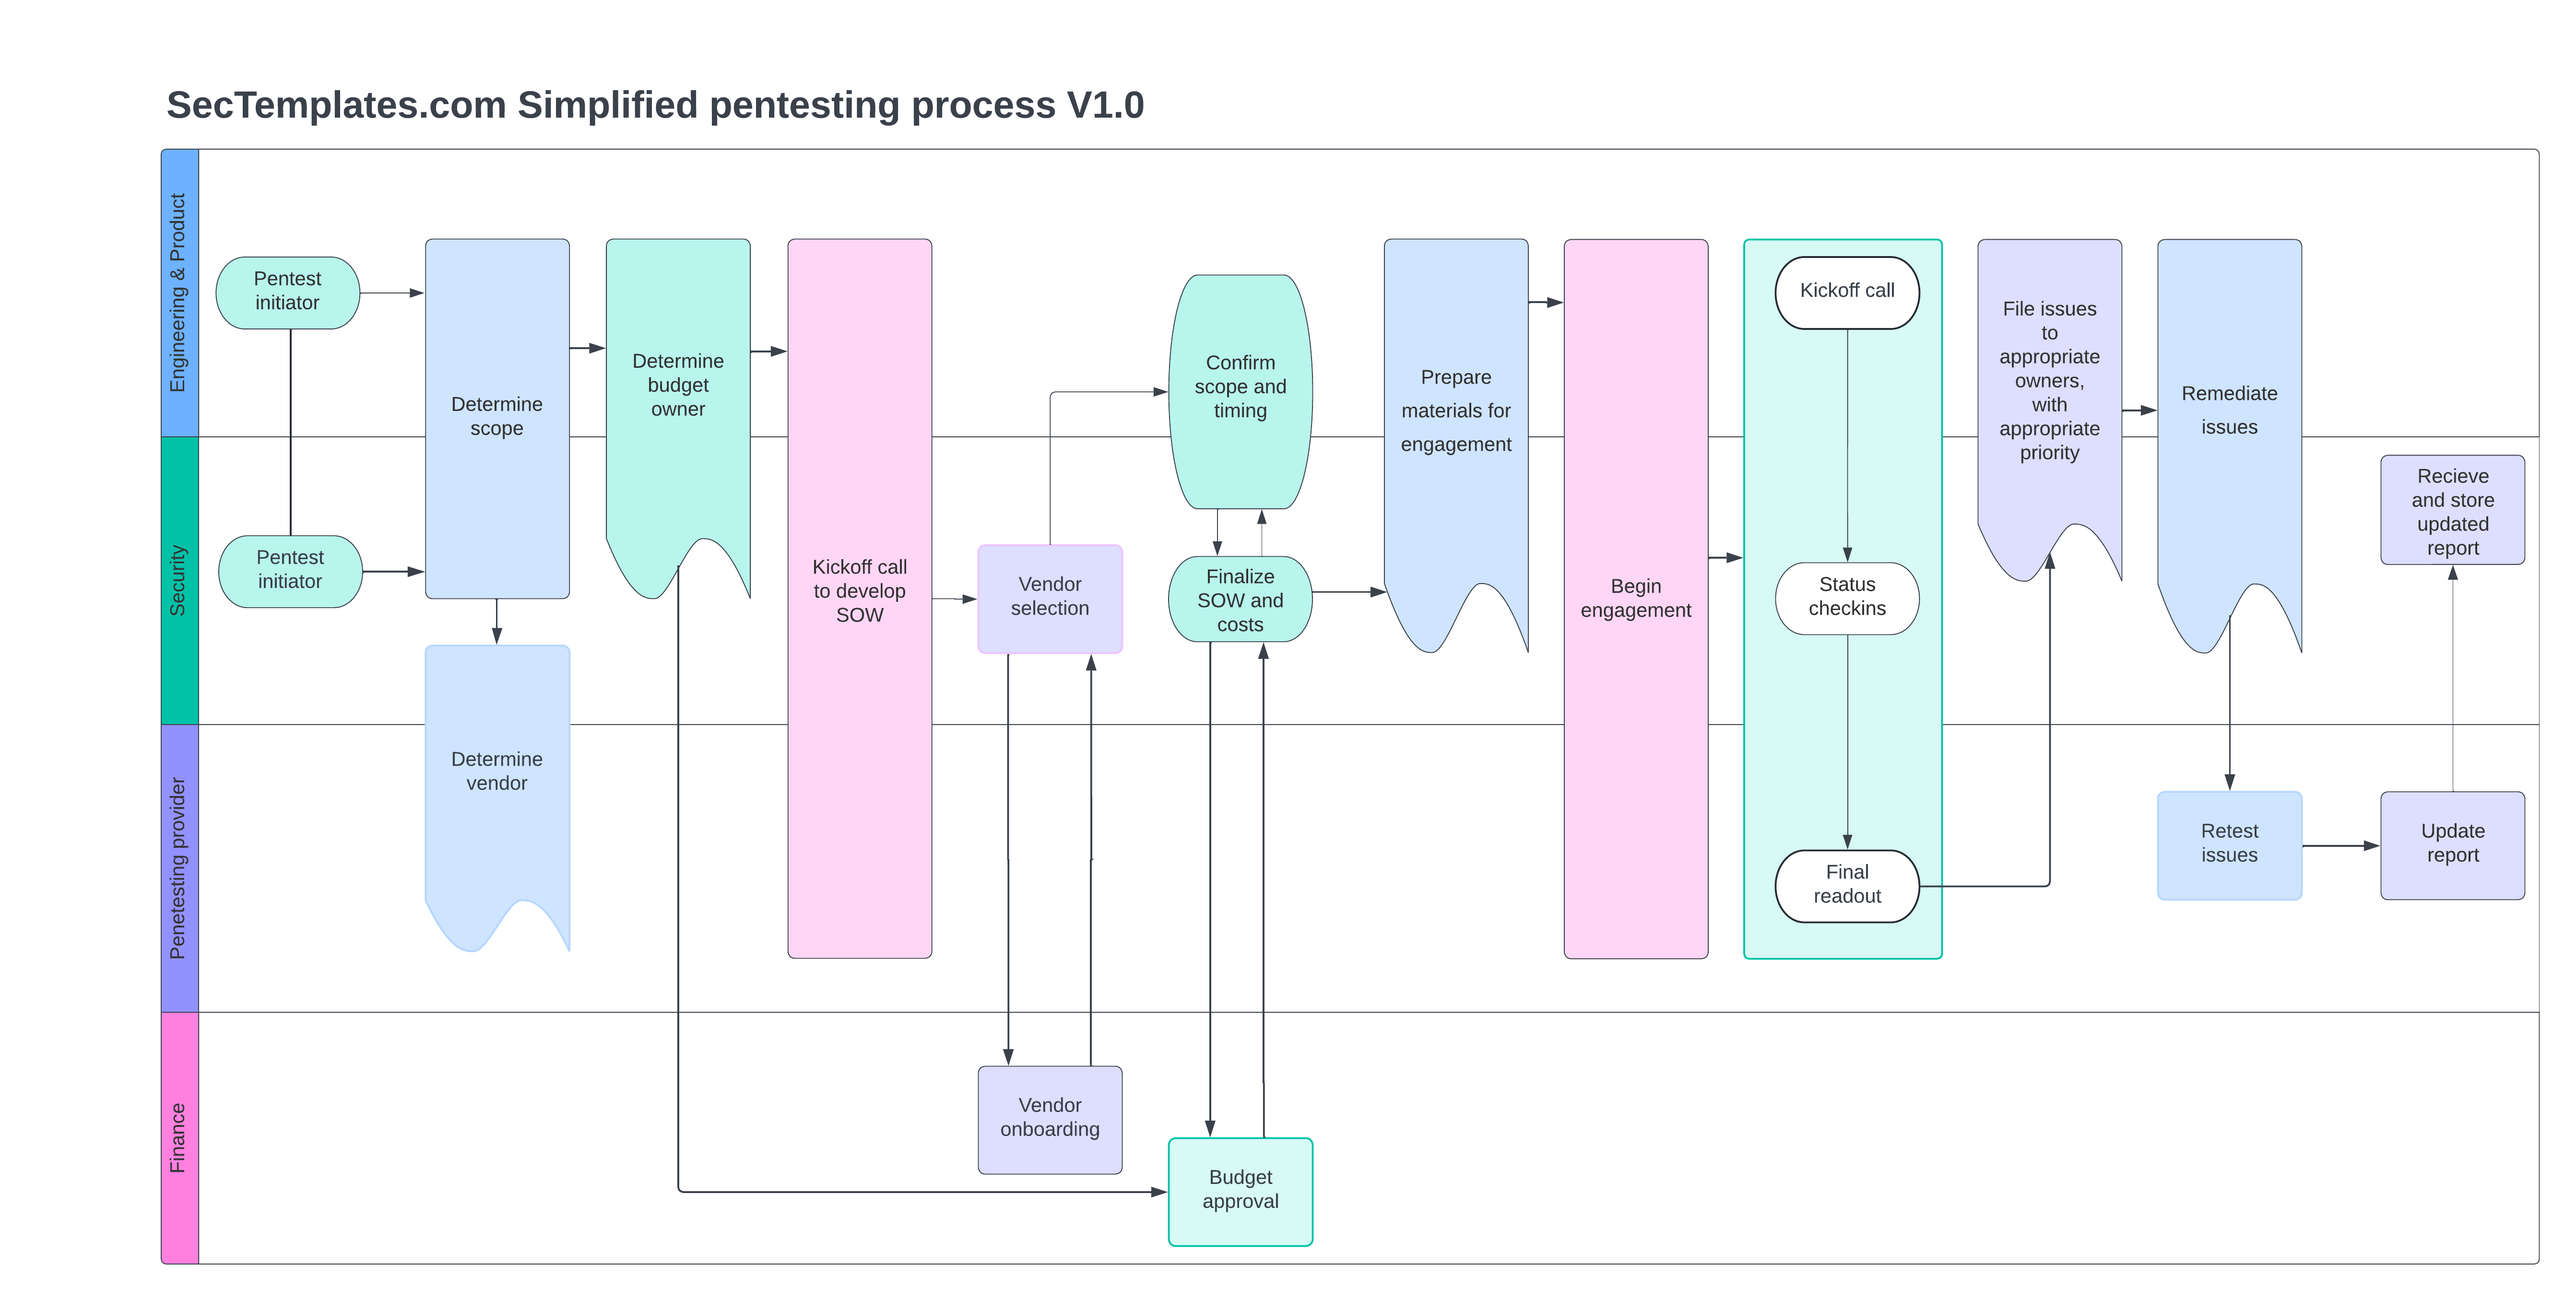
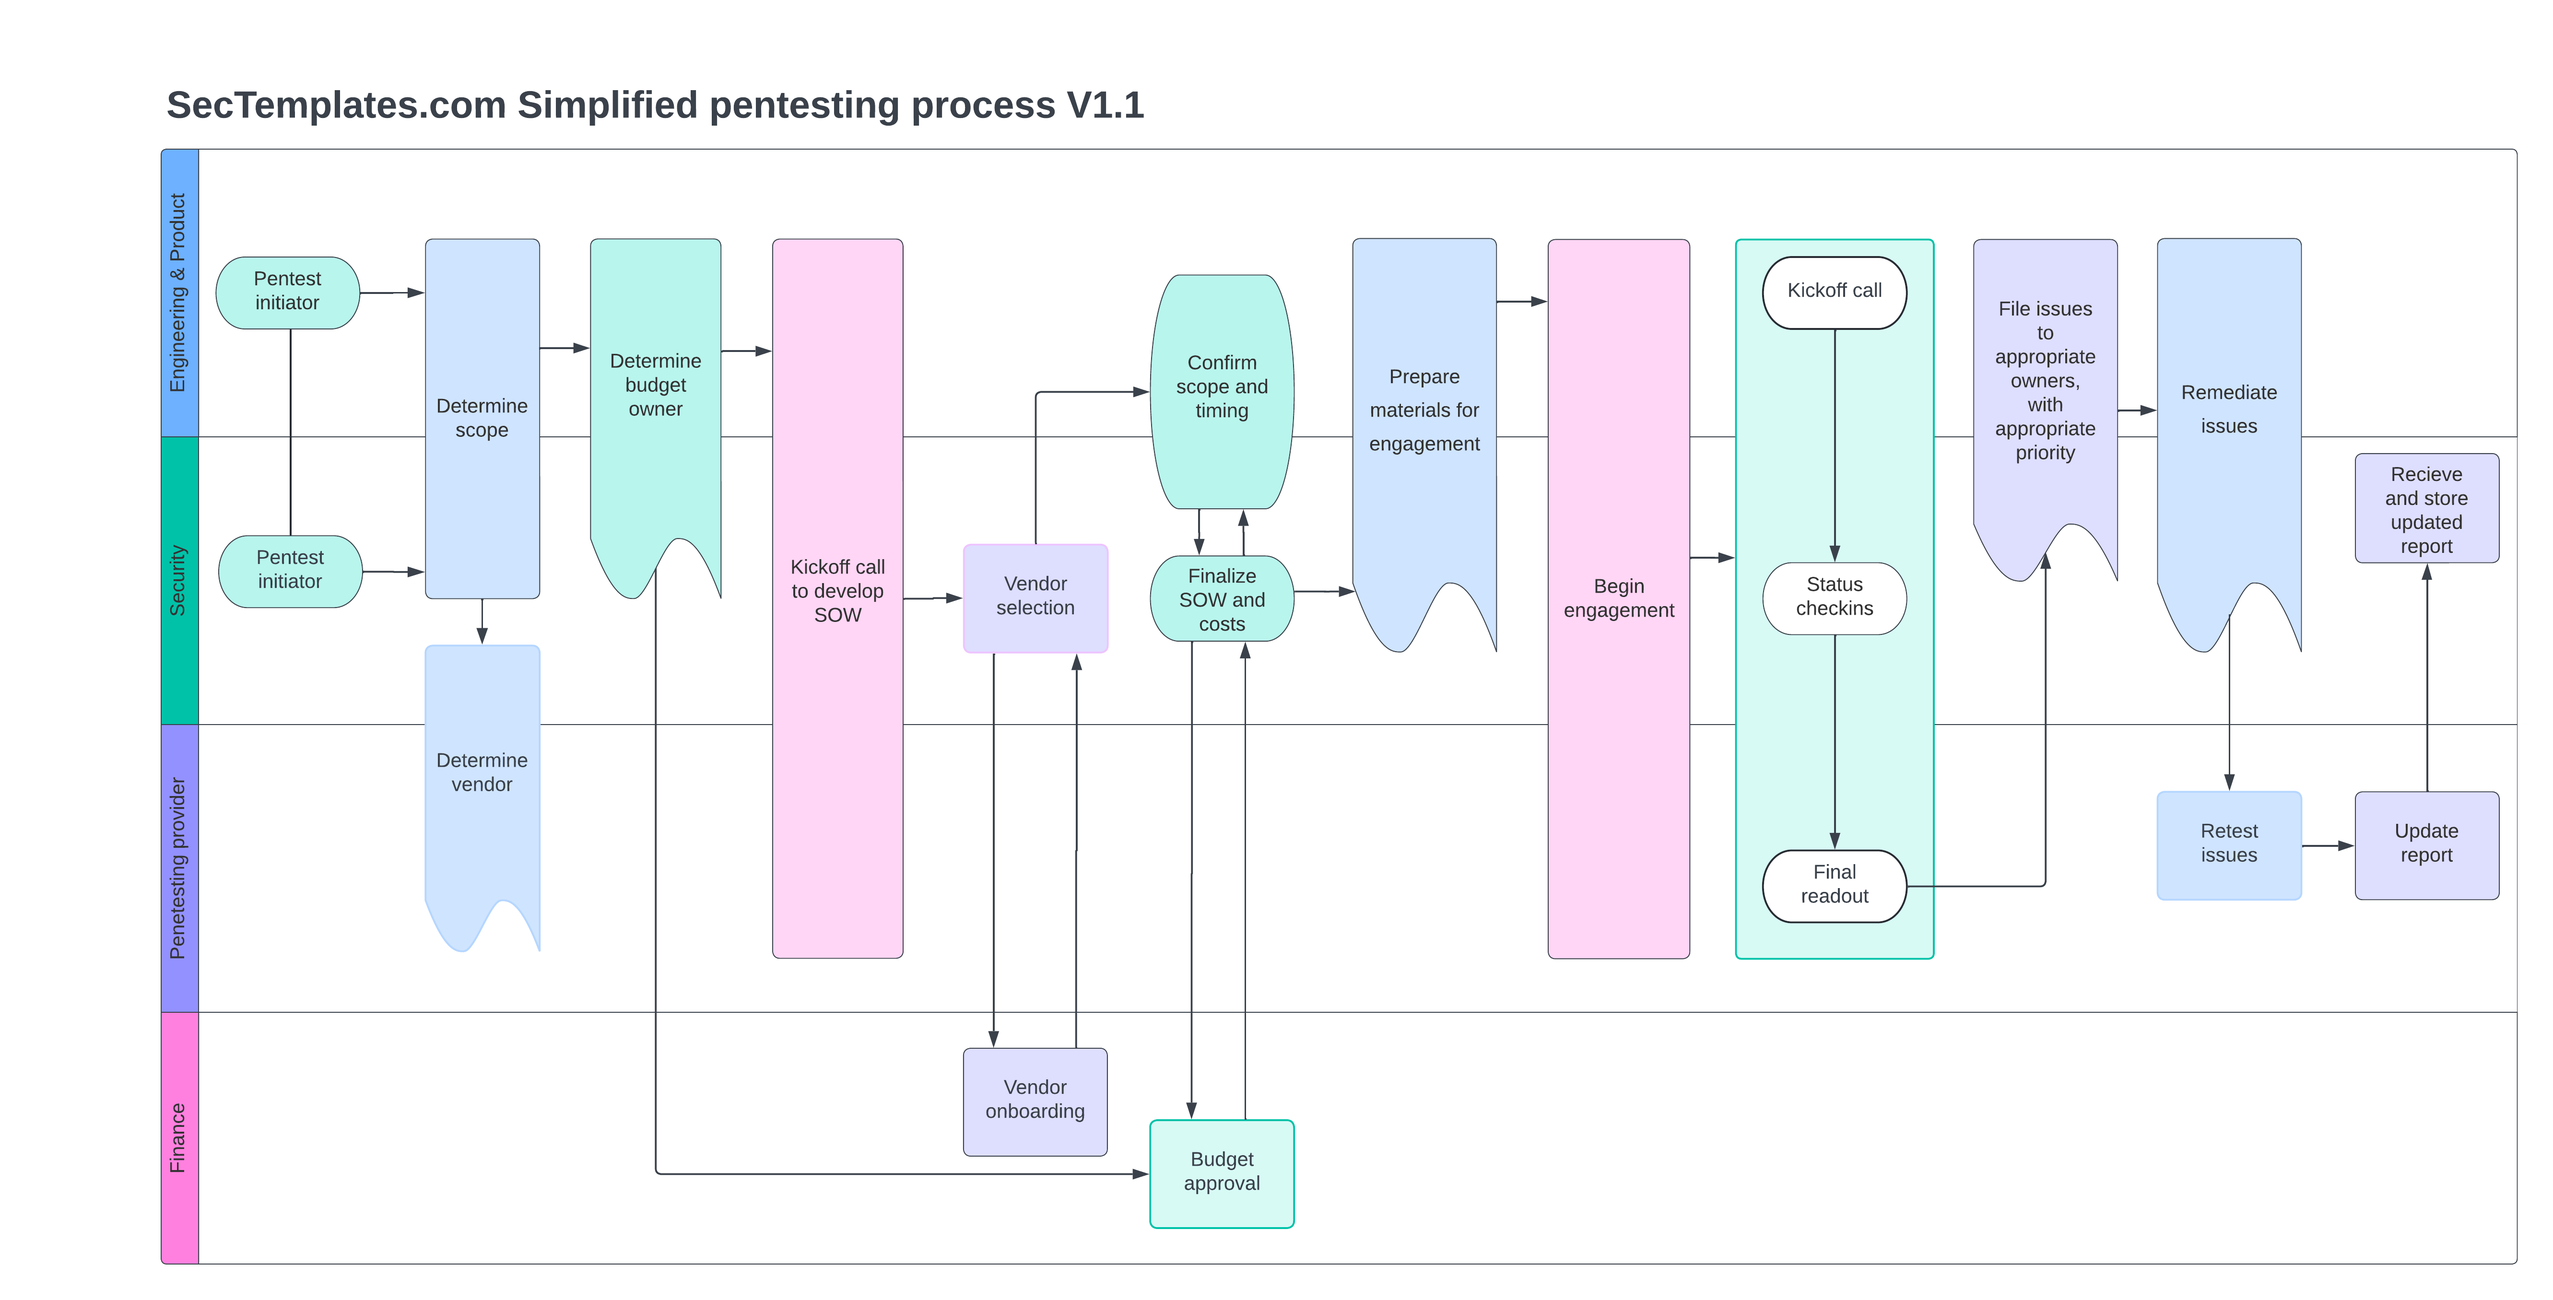
Release 1.1
See UPDATES.md for details on what has changed

diff --git a/external-penetration-testing/v1/Pentesting_preparation_checklist.md b/external-penetration-testing/v1/Pentesting_preparation_checklist.md
@@ -1,4 +1,4 @@
-# Penetration testing preparation checklist 1.0
+# Penetration testing preparation checklist 1.1
 
 ## About
 This document outlines the preparation, activities, and considerations required to establish a minimal external penetration testing program.
@@ -6,9 +6,9 @@ This document outlines the preparation, activities, and considerations required 
 ## Penetration testing preparation checklist
 - [ ] <b>Understand why you want a pentest:</b> First and foremost, why are you looking to perform a pentest? Is this for a compliance checkbox, to enhance the security of your product/environment proactively or reactively, based on a customer request, or for some other reason? This can help set the direction, urgency, and path forward for executing a pentest. 
 - [ ] <b>Establish initial scope and capture it in a scoping document:</b> The pentest project manager will need to determine an initial scope and to capture it in a scoping document. This should be shared with engineering, product, compliance, and other applicable stakeholders to ensure the scope is correct and comprehensive. 
-- [ ] <b>Identify budget:</b> For external penetration tests you will need to find a budget to pay for the engagement. For internal pentesting, you will need to ensure the pentesting team has prioritized your engagement over another.
+- [ ] <b>Identify budget:</b> For external penetration tests you will need to find a budget to pay for the engagement. For internal pentesting, you will need to ensure the pentesting team has prioritized your engagement over another and can support your timelines.
 - [ ] <b>Identify external pentester:</b> If you lack an internal person who is qualified and available to perform the pentest, you will need to identify an external vendor.  There are hundreds of vendors offering this service, and using LinkedIn or word of mouth to find a good vendor is advisable whenever possible. It's important to create a shortlist of 2-3 vendors and determine which has the right skills, cost range, and timing for your engagement. 
-- [ ] <b>Onboard external pentester:</b> When using an external company, it can take several weeks or months to onboard the new vendor if it's the first time you're using them. This is because each company's vendor security/onboarding processes varies, and response times can also be slow depending on workload volume. It's critical to start this process early to avoid delays. Once you have decided the test needs to occur, begin this process even before locking in all details of the engagement. 
+- [ ] <b>Onboard external pentester:</b> When using an external company, it can take several weeks or months to onboard the new vendor if it's the first time you're using them. This is because each company's vendor security/onboarding processes varies, signatures from multiple stakeholders or 'stamps' may be required, and response times can also be slow depending on workload volume. It's critical to start this process early to avoid delays. Once you have decided the test needs to occur, begin this process even before locking in all details of the engagement. 
 - [ ] <b>Stakeholder identification:</b> It's critical to determine which stakeholders need to be involved in all aspects of the pentest process. Typically, this will involve looping in:<br>
     * The engineering manager owning the products, features, or systems in scope for the engagement.
     * A software engineer responsible for, or very familiar with the codebase.<br>
@@ -17,7 +17,7 @@ This document outlines the preparation, activities, and considerations required 
     * A pentest project manager, an individual coordinating the engagement. <br>
     * A representative from the compliance team, when there is a compliance tie-in.
 - [ ] <b>Confirm scope with stakeholders:</b> The scope should be captured in a planning document that will ultimately be included in a statement of work (SOW) with the external company.
-- [ ] <b>Confirm timing of product release:</b> If you're testing a new feature that isn't live, you will need to know the go-live date. It's recommended the testing wrap up 2-3 weeks before go live to give engineering the 2-3 weeks to fix any vulnerabilities prior to release. 
+- [ ] <b>Confirm timing of product release:</b> If you're testing a new feature that isn't live, you will need to know the go-live date. It's recommended the testing wrap up 2-3 weeks before go live to give engineering the 2-3 weeks to fix any vulnerabilities prior to release. The exact details on must fix items should be outlined in a <a href="https://www.sectemplates.com/2024/08/announcing-the-vulnerability-management-program-pack-10.html">vulnerability management process</a>.
 - [ ] <b>Establish SOW with vendor:</b> After identifying a vendor, work with them to establish a statement of work. The statement of work should specify the scope, price, days/weeks the engagement lasts, travel costs, <a href="./Pentest_reporting_requirements.md">reporting requirements</a>, and retesting details. If you omit any of these, you may be charged a higher fee later to include them. 
 - [ ] <b>Budget approval:</b> Once costs are known, work with the budget approver to adjust scope as needed, or to approve.
 - [ ] <b>Finalize SOW:</b> Now that budget is approved, timing is established with eng and outlined in the SOW, and you have double checked the scope, sign the SOW and lock it in with the vendor. This may require signatures from leadership, and/or legal, so anticipate this extra step timing wise.
@@ -30,12 +30,12 @@ This document outlines the preparation, activities, and considerations required 
 - [ ] <b>Plan engagement meetings:</b><br>
    * Scheduling the kickoff meeting with key stakeholders and the external testing company is essential. During this meeting eng/product should provide an overview of the products/systems utilized and answer questions the testers may have.<br>
    * Schedule one or more check-in meetings to ensure the testing is going as planned. This will enable course correction or additional support early which increases the chance of a successful engagement.<br>
-   * Schedule a final readout with key stakeholders from security, compliance (when applicable), engineering, and product. Invite other people involved in the process as optional but ensure key owners of the risks identified in the process are present in the final readout. <br>
+   * Schedule a final readout with key stakeholders from security, compliance (when applicable), engineering, and product. Invite other people involved in the process as optional but ensure key owners of the risks identified during the pentest are present in the final readout. <br>
 - [ ] <b>Communicating issues to risk owners:</b> Before the pentest concludes issues will be uncovered by the testers. It's important to immediately notify impacted engineering teams, this will enable them to verify if the issue is real and if so to remediate it quickly. If the issue isn't real it can then be excluded from the report or downgraded in priority if determined not to be as important as initially thought. Once a list of verified issues exist, create a parent jira ticket for the pentest engagement and link each issue as a child ticket and assign them to the correct engineering/operations owners. Ensure you speak with them about these issues prior to filing them to ensure you aren't slamming an unaware team with substantial work. 
-- [ ] <b>Analyzing risks for bigger learnings:</b> For each identified risk you should analyze it to determine what actions may be possible to prevent its recurrence or introduction moving forward. Specifically you should ask:
+- [ ] <b>Analyzing risks for bigger learnings:</b> Each identified risk should be analyzed to determine what actions may be possible to prevent its recurrence or introduction moving forward. Specifically you should ask:
    * Is this something our automation can easily detect? If so, determine a path forward to automate detection moving forward.
    * Is this something that keeps reoccuring? If so, there may be a security control that could be created to solve the issue proactively, for example a security framework (e.g. anti CSRF, improved auth framework, output filtering, etc...). 
 - [ ] <b>Scheduling a retest:</b> After the pentesting engagement ends, engineering/operations will implement security fixes for identified findings. It's important to schedule a retest to verify the fixes have been implemented correctly.
 - [ ] <b>Retest report updates:</b> In addition to performing the retesting, it's a good idea to also have the tester update the pentest report to indicate if issues were fixed, or mitigated in such a way that could downgrade priority. When customers, auditors, or regulators ask for a copy of the report it will capture if identified issues are remediated or not.
 
-Checklist version 1.0 copied from [Sectemplates.com](https://www.sectemplates.com)
+Checklist version 1.1 copied from [Sectemplates.com](https://www.sectemplates.com)

diff --git a/external-penetration-testing/v1/README.md b/external-penetration-testing/v1/README.md
@@ -1,4 +1,4 @@
-# Introduction to the external penetration testing program pack 1.0
+# Introduction to the external penetration testing program pack 1.1
 Welcome to the penetration testing release pack, this release contains everything you need to scope your first pentest, work with a vendor, execute, and get the types of reports you need from an external tester. This will enable you to perform your first product or infrastructure level penetration test, and provide you with a process moving forward for future engagements.
 <br><br>
 We suggest reviewing the material in the order specified below.
@@ -26,4 +26,4 @@ Below is an outline of a <a href="./Simplified_pentest_process.png">simplified p
 <b>Question:</b> You seem to be missing something and I'd like to suggest a modification. How can I reach out to you?<br>
 <b>Answer: </b> Please use the <a href="https://www.sectemplates.com/contact-us.html">contact us form on our main website</a>.
 
-Document version 1.0 copied from [Sectemplates.com](https://www.sectemplates.com)
+Document version 1.1 copied from [Sectemplates.com](https://www.sectemplates.com)

diff --git a/external-penetration-testing/v1/Pentest_reporting_requirements.md b/external-penetration-testing/v1/Pentest_reporting_requirements.md
@@ -1,7 +1,7 @@
 # Penetration testing reporting requirements 
 
 # About
-This document outlines a minimum set of information that should be included in a pentest report to support remediation efforts. 
+This document outlines a minimum set of information that should be included in a pentest report to support remediation efforts, and customer reporting expectations. 
 
 # Minimum Pentest Reporting Requirements
 * <b>Contact information:</b> Personnel involved in the testing, management, and support of the engagement along with associated contact emails.
@@ -20,4 +20,4 @@ This document outlines a minimum set of information that should be included in a
 * Ensure issues are filed in a way that is observable within the engineering dashboards, otherwise, issues may become lost or hidden. 
 * Ensure vulnerability priority aligns with internal vulnerability ranking bar to clearly indicate severity and fix expectations. 
 
-Requirements version 1.0 copied from [Sectemplates.com](https://www.sectemplates.com)
+Requirements version 1.1 copied from [Sectemplates.com](https://www.sectemplates.com)

diff --git a/external-penetration-testing/v1/UPDATES.md b/external-penetration-testing/v1/UPDATES.md
@@ -1,0 +1,10 @@
+# External Penetration Testing Pack Updates
+
+
+
+12/27/2024 - V1.1 - Released
+ * Diagram updated to improve formatting/readability
+ * Improved wording to provide clarity in several places.
+
+6/23/2024 - V1 - Released
+  * Announcement: <a href="https://www.sectemplates.com/2024/06/announce-the-external-penetration-testing-program-pack-10.html">Announcing the External Penetration Testing program pack 1.0</a> 
